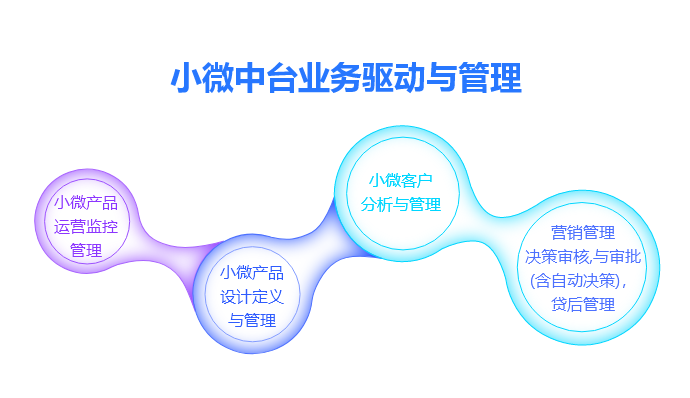
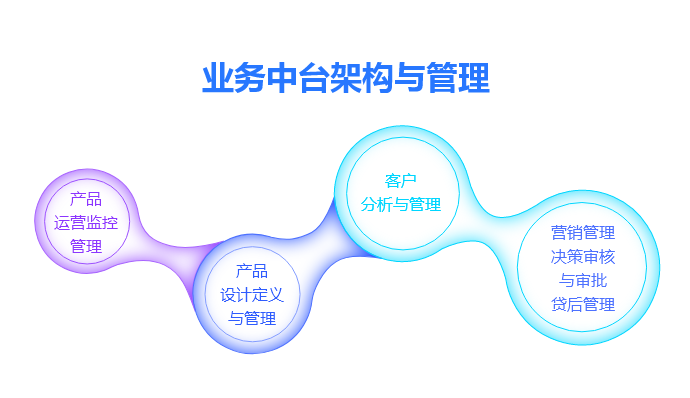
feat: add

diff --git a/src/views/Plan.vue b/src/views/Plan.vue
@@ -5,15 +5,15 @@
         <swiper-slide>
           <div class="container" v-if="swiperIndex === 0">
             <div class="step1">
-              <h3 class="title animate__animated animate__fadeInDown">“微生素”小微金融生命体系</h3>
+              <h3 class="title animate__animated animate__fadeInDown">“知识产权”小微金融生命体系</h3>
               <div class="box">
                 <div class="anim-b">
                   <img class="r a-icon" src="@/assets/plan-s1-2.png" alt="" />
                   <img class="s animate__animated animate__zoomIn" src="@/assets/plan-s1-1.png" alt="" srcset="" />
-                  <span class="t t1 animate__animated a-icon2 animate__delay-1-1">多元产品体系</span>
-                  <span class="t t2 animate__animated a-icon3 animate__delay-1-2">以客户为中心<br />的运营体系</span>
-                  <span class="t t3 animate__animated a-icon3 animate__delay-1-3">标准高效的<br />交付新体系</span>
-                  <span class="t t4 animate__animated a-icon3 animate__delay-1-4">数字化小微智<br />能创新体系</span>
+                  <span class="t t1 animate__animated a-icon2 animate__delay-1-1">全生命周期<br />多元产品体系</span>
+                  <span class="t t2 animate__animated a-icon3 animate__delay-1-2">以知识产权客群为<br />中心的运营体系</span>
+                  <span class="t t3 animate__animated a-icon3 animate__delay-1-3">高效率、高标准<br />高质量交付</span>
+                  <span class="t t4 animate__animated a-icon3 animate__delay-1-4">数字化“知产质押融资”<br />创新体系</span>
                   <span class="t t5 animate__animated a-icon3 animate__delay-1-5">数据信贷的风险识<br />别与量化风控体系</span>
                 </div>
               </div>
@@ -23,7 +23,7 @@
         <swiper-slide>
           <div class="container" v-if="swiperIndex === 1">
             <div class="step2 animate__animated animate__fadeInDown">
-              <h3 class="title">“毕昇”数字小微赋能平台</h3>
+              <h3 class="title">“知识产权质押融资”数字化赋能平台</h3>
               <div class="items">
                 <div class="item" v-for="(item, index) in list" :key="index">
                   <img :src="item.icon" alt="" srcset="" />
@@ -33,13 +33,13 @@
               </div>
             </div>
             <div class="step3 animate__animated animate__fadeInDown animate__delay-1">
-              <h3 class="title">小微中台业务驱动与管理</h3>
+              <h3 class="title">业务中台架构与管理</h3>
               <div class="items">
                 <img class="animate__animated animate__zoomIn animate__delay-2" src="@/assets/plan-s3-1.png" alt="" srcset="" />
-                <span class="t t1 animate__animated animate__fadeInDown6 animate__delay-2-1">小微产品<br />运营监控<br />管理</span>
-                <span class="t t2 animate__animated animate__fadeInDown6 animate__delay-2-2">小微产品<br />设计定义<br />与管理</span>
-                <span class="t t3 animate__animated animate__fadeInDown6 animate__delay-2-3">小微客户<br />分析与管理</span>
-                <span class="t t4 animate__animated animate__fadeInDown6 animate__delay-2-4">营销管理<br />决策审核<br />与审批(含自动决策)<br />贷后管理</span>
+                <span class="t t1 animate__animated animate__fadeInDown6 animate__delay-2-1">产品运营<br />监控管理</span>
+                <span class="t t2 animate__animated animate__fadeInDown6 animate__delay-2-2">产品设计<br />定义与管理</span>
+                <span class="t t3 animate__animated animate__fadeInDown6 animate__delay-2-3">客户<br />分析与管理</span>
+                <span class="t t4 animate__animated animate__fadeInDown6 animate__delay-2-4">营销管理<br />决策审核<br />与审批<br />贷后管理</span>
               </div>
             </div>
           </div>
@@ -69,21 +69,21 @@
     <template v-else>
       <div class="container" v-if="swiperIndex === 0">
         <div class="step1">
-          <h3 class="title animate__animated animate__fadeInDown">“微生素”小微金融生命体系</h3>
+          <h3 class="title animate__animated animate__fadeInDown">“知识产权”小微金融生命体系</h3>
           <div class="box">
             <div class="anim-b">
               <img class="r a-icon" src="@/assets/plan-s1-2.png" alt="" />
               <img class="s animate__animated animate__zoomIn" src="@/assets/plan-s1-1.png" alt="" srcset="" />
-              <span class="t t1 animate__animated a-icon2 animate__delay-1-1">多元产品体系</span>
-              <span class="t t2 animate__animated a-icon3 animate__delay-1-2">以客户为中心<br />的运营体系</span>
-              <span class="t t3 animate__animated a-icon3 animate__delay-1-3">标准高效的<br />交付新体系</span>
-              <span class="t t4 animate__animated a-icon3 animate__delay-1-4">数字化小微智<br />能创新体系</span>
-              <span class="t t5 animate__animated a-icon3 animate__delay-1-5">数据信贷的风<br />险识别与量化<br />风控体系</span>
+              <span class="t t1 animate__animated a-icon2 animate__delay-1-1">全生命周期<br />多元产品体系</span>
+              <span class="t t2 animate__animated a-icon3 animate__delay-1-2">以知识产权客群为<br />中心的运营体系</span>
+              <span class="t t3 animate__animated a-icon3 animate__delay-1-3">高效率、高标准<br />高质量交付</span>
+              <span class="t t4 animate__animated a-icon3 animate__delay-1-4">数字化“知产质押融资”<br />创新体系</span>
+              <span class="t t5 animate__animated a-icon3 animate__delay-1-5">数据信贷的风险识<br />别与量化风控体系</span>
             </div>
           </div>
         </div>
         <div class="step2 animate__animated animate__fadeInDown">
-          <h3 class="title">“毕昇”数字小微赋能平台</h3>
+          <h3 class="title">“知识产权质押融资”数字化赋能平台</h3>
           <div class="items">
             <div class="item" v-for="(item, index) in list" :key="index">
               <img :src="item.icon" alt="" srcset="" />

diff --git a/src/views/CallUs.vue b/src/views/CallUs.vue
@@ -4,7 +4,7 @@
       <div class="more-info">
         <img class="title animate__animated animate__fadeInDown" src="@/assets/call-title.png" alt="" />
         <div class="text-box animate__animated animate__fadeInDown animate__delay-1">
-          <p class="tell">联系电话：023-6666 8888</p>
+          <p class="tell">联系电话：023 6084 9878</p>
           <p class="address">地址：重庆市 渝北区 黄山大道中段7号（中国进出口银行8楼）</p>
           <button class="btn" @click="toggle" v-if="width > 1200"></button>
         </div>

diff --git a/src/components/Footer.vue b/src/components/Footer.vue
@@ -13,7 +13,7 @@
           </ul>
         </div>
         <div class="bottom">
-          <span>电话：023-6666 8888</span>
+          <span>电话：023 6084 9878 </span>
           <span>地址：重庆市 渝北区 黄山大道中段7号（中国进出口银行8楼）</span>
         </div>
       </div>
